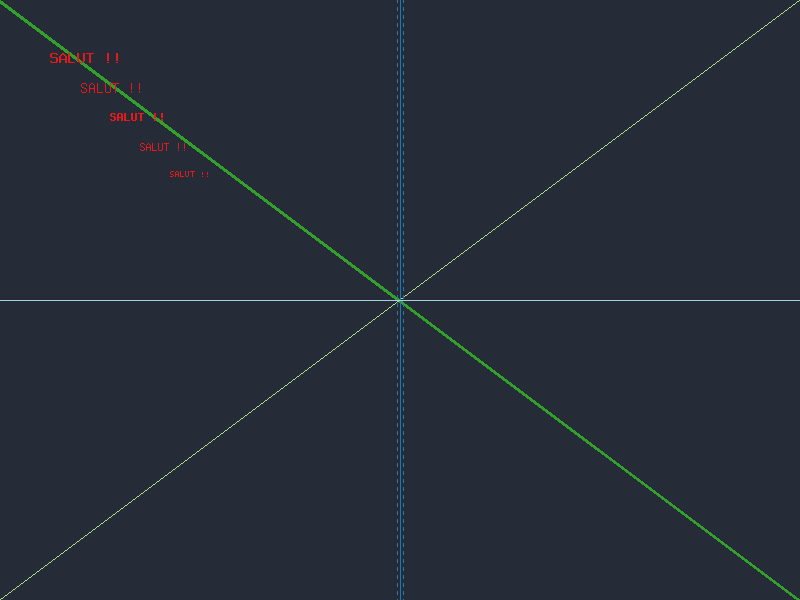
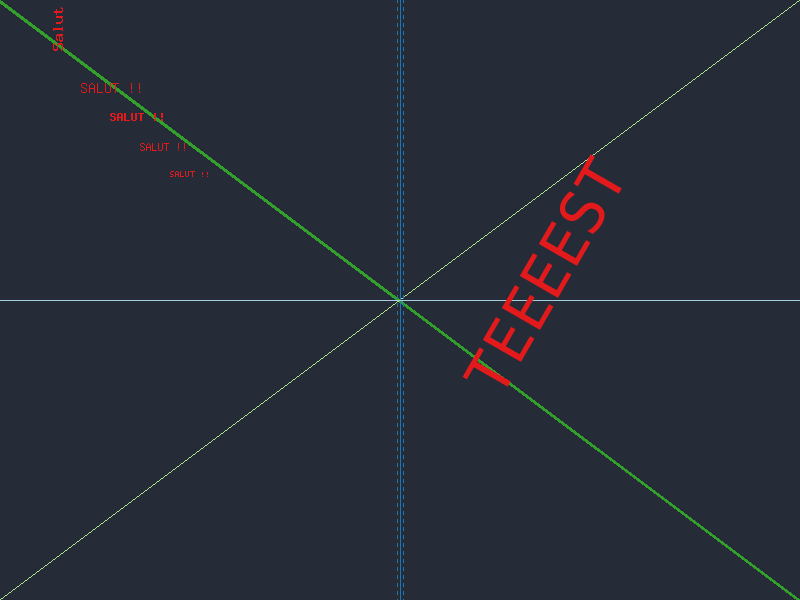
update ...

diff --git a/plotting_data/src/main.c b/plotting_data/src/main.c
@@ -17,30 +17,33 @@
 #include <gdfontl.h>
 #include <gdfontg.h>
 
+#define PI 3.141592
+#define DEG2RAD(x) ((x)*PI/180.)
+
 int main(int argc, char* argv[])
 {
     // ------------------------------------------------------------------------
     // Gestion bdd SQLite
     // ------------------------------------------------------------------------
-    sqlite3 *db_belib;
+    // sqlite3 *db_belib;
 
-    // Ouverture de la db
+    // // Ouverture de la db
     
-    const char path_to_db[] = "../db_sqlite/belib_data.db";
+    // const char path_to_db[] = "../db_sqlite/belib_data.db";
 
-    int rc = sqlite3_open(path_to_db, &db_belib);
+    // int rc = sqlite3_open(path_to_db, &db_belib);
 
-    // Test d'ouverture de la db
-    if (rc != SQLITE_OK)
-    {
-        fprintf(stderr, "Err: %s\n", sqlite3_errmsg(db_belib));
-        sqlite3_close(db_belib);
-        exit(EXIT_FAILURE);
-    }
+    // // Test d'ouverture de la db
+    // if (rc != SQLITE_OK)
+    // {
+    //     fprintf(stderr, "Err: %s\n", sqlite3_errmsg(db_belib));
+    //     sqlite3_close(db_belib);
+    //     exit(EXIT_FAILURE);
+    // }
 
 
-    // Fermeture de la db
-    sqlite3_close(db_belib);
+    // // Fermeture de la db
+    // sqlite3_close(db_belib);
 
 
     // ------------------------------------------------------------------------
@@ -116,8 +119,57 @@ int main(int argc, char* argv[])
     gdImageString(im, fontptrmb, 110, 110, "SALUT !!", rouge_fonce);
     gdImageString(im, fontptrs, 140, 140, "SALUT !!", rouge_fonce);
     gdImageString(im, fontptrt, 170, 170, "SALUT !!", rouge_fonce);
+    // gdImageString(im, fontptrt, 500, 400, "SALUT !!", rouge_fonce);
+    int brect[8] = {0};
+    char* f1 = "/usr/share/fonts/truetype/dejavu/DejaVuSansMono.ttf";
+    char* f2 = "/usr/share/fonts/truetype/lato/Lato-Light.ttf";
+    char* f3 = "/usr/share/fonts/truetype/lato/Lato-Thin.ttf";
+    char* err;
+    err = gdImageStringFT(im, brect, rouge_fonce, f1, 26, 0., 500, 300, "TEEEEST");
+    err = gdImageStringFT(im, brect, rouge_fonce, f2, 26, 0., 500, 250, "TEEEEST");
+    err = gdImageStringFT(im, brect, rouge_fonce, f3, 26, 0., 500, 200, "TEEEEST");
+    err = gdImageStringFT(im, brect, rouge_fonce, f1, 26, 0., 500, 150, "Teeest");
+    err = gdImageStringFT(im, brect, rouge_fonce, f2, 26, 0., 500, 100, "Teeest");
+    err = gdImageStringFT(im, brect, rouge_fonce, f3, 26, 0., 500, 50, "Teeest");
 
+    for (int i =0; i < 360;i=i+20) {
+        err = gdImageStringFT(im, brect, rouge_fonce, f2, 26, DEG2RAD(i), 200, 450, "TEEEEST");
+    }
 
+    err = gdImageStringFT(im, brect, rouge_fonce, f2, 16, DEG2RAD(55), 450, 550, "Test test");
+    err = gdImageStringFT(im, brect, rouge_fonce, f2, 16, DEG2RAD(55), 500, 550, "Test test");
+    err = gdImageStringFT(im, brect, rouge_fonce, f2, 16, DEG2RAD(55), 550, 550, "Test test blabli bla");
+    
+    int upper_lim = brect[5]-5;
+    gdImageDashedLine(im, Nx/2,    upper_lim, Nx-1, upper_lim, orange_fonce); // verticale
+
+    printf("%s \n", err);
+
+/**
+ * Function: gdImageStringFT
+ *
+ * Render an UTF-8 string onto a gd image.
+ *
+ * Parameters:
+ *	im       - The image to draw onto.
+ *  brect    - The bounding rectangle as array of 8 integers where each pair
+ *             represents the x- and y-coordinate of a point. The points
+ *             specify the lower left, lower right, upper right and upper left
+ *             corner.
+ *	fg       - The font color.
+ *	fontlist - The semicolon delimited list of font filenames to look for.
+ *	ptsize   - The height of the font in typographical points (pt).
+ *	angle    - The angle in radian to rotate the font counter-clockwise.
+ *	x        - The x-coordinate of the basepoint (roughly the lower left corner) of the first letter.
+ *	y        - The y-coordinate of the basepoint (roughly the lower left corner) of the first letter.
+ *	string   - The string to render.
+ *
+ * Variant:
+ *  - <gdImageStringFTEx>
+ *
+ * See also:
+ *  - <gdImageString>
+ */
     
     /* FIG GRILLE*/
     /* Declare the image */
@@ -138,7 +190,7 @@ int main(int argc, char* argv[])
     // gdImageFilledRectangle(im2, 100, 100, 300, 300, violet_clair);
 
     /*TEST COPIE*/
-    gdImageCopy(im, im2, 200, 300, 0, 0, Nx2-1, Ny2-1);
+    // gdImageCopy(im, im2, 100, 100, 0, 0, Nx2-1, Ny2-1);
 
     /* Open a file for writing. "wb" means "write binary", important
         under MSDOS, harmless under Unix. */
